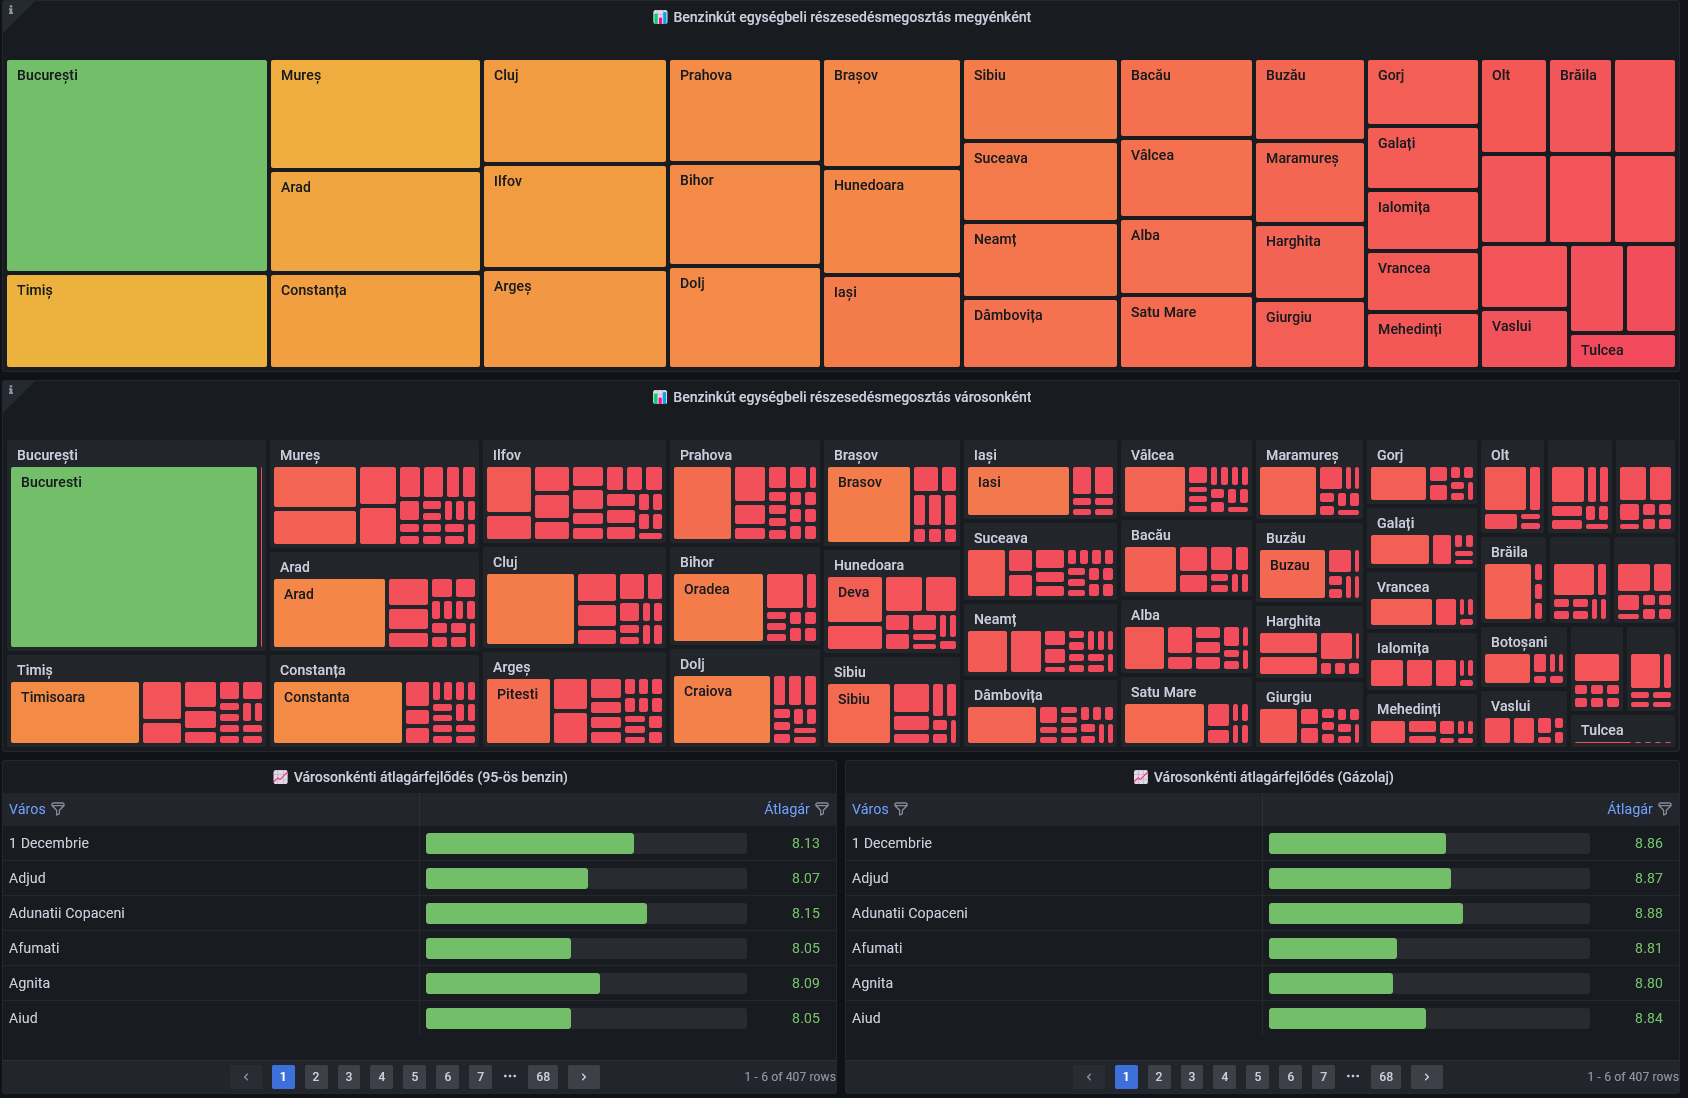
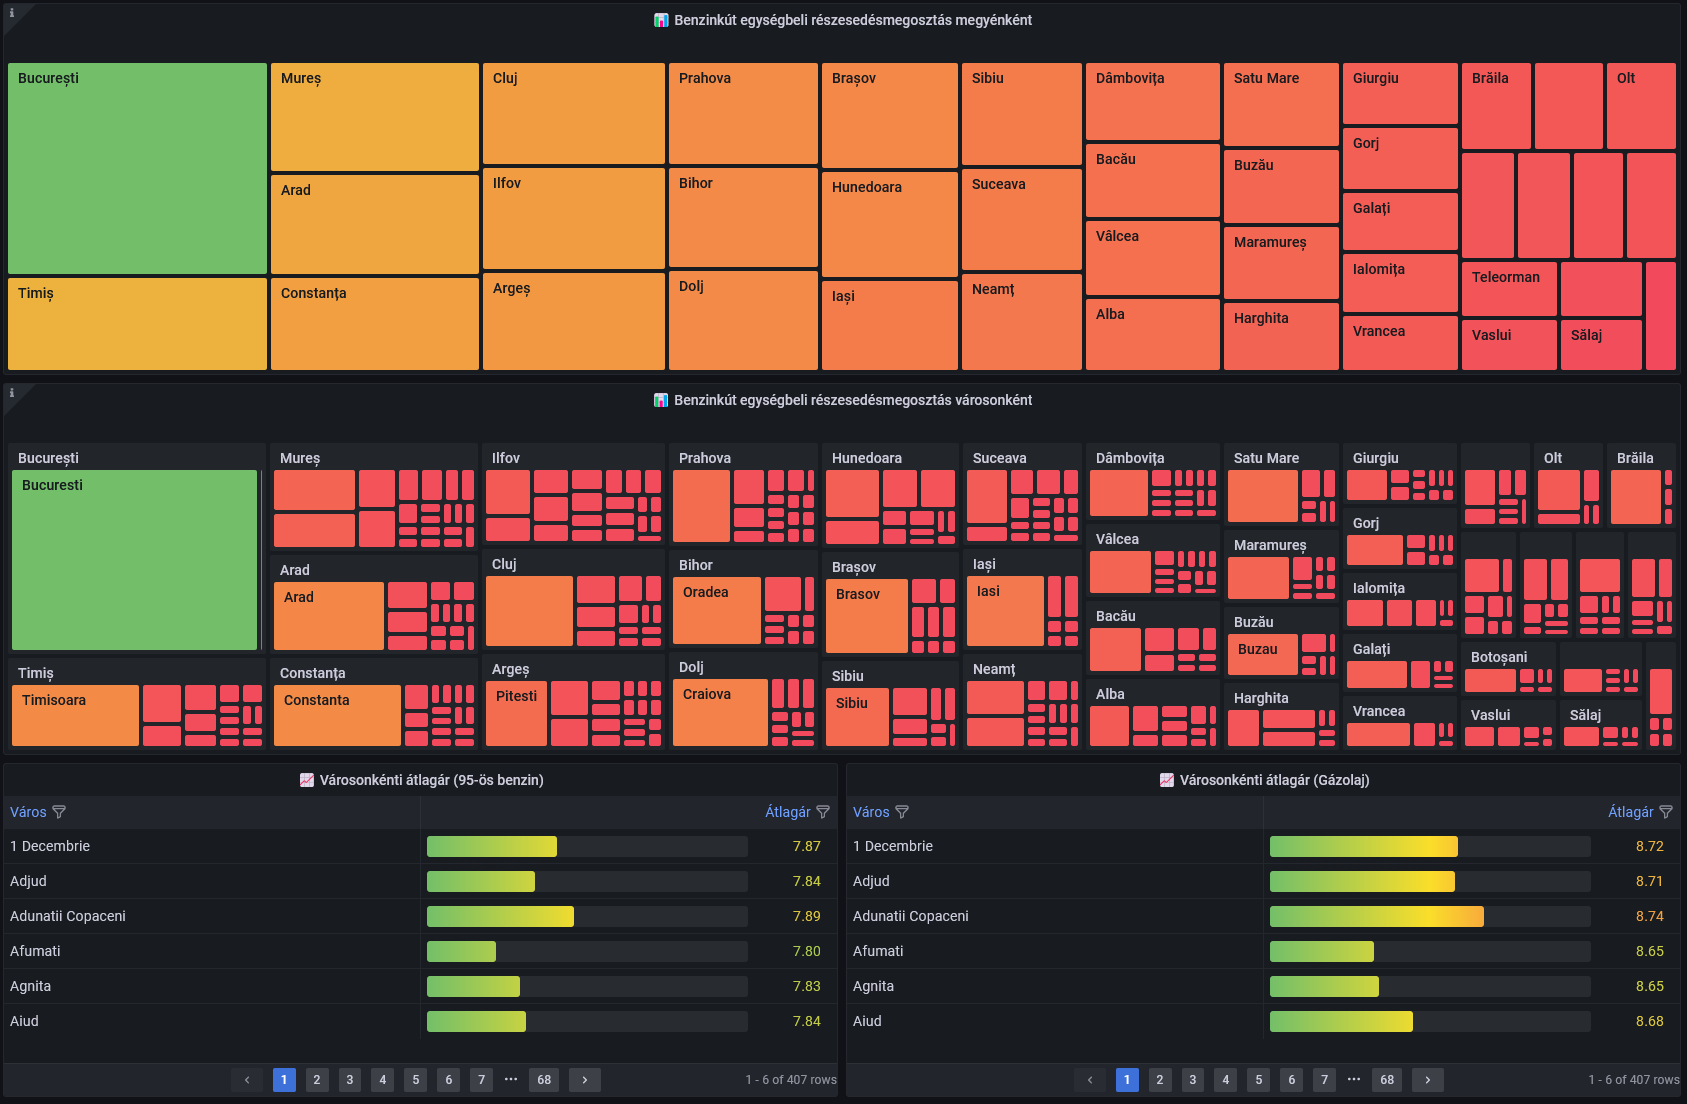
updated model and screenshots

diff --git a/README.md b/README.md
@@ -59,4 +59,3 @@ DB_PORT=8086
 ![S7](screenshots/s7.png)
 ![S8](screenshots/s8.png)
 ![S9](screenshots/s9.png)
-![S10](screenshots/s10.png)
